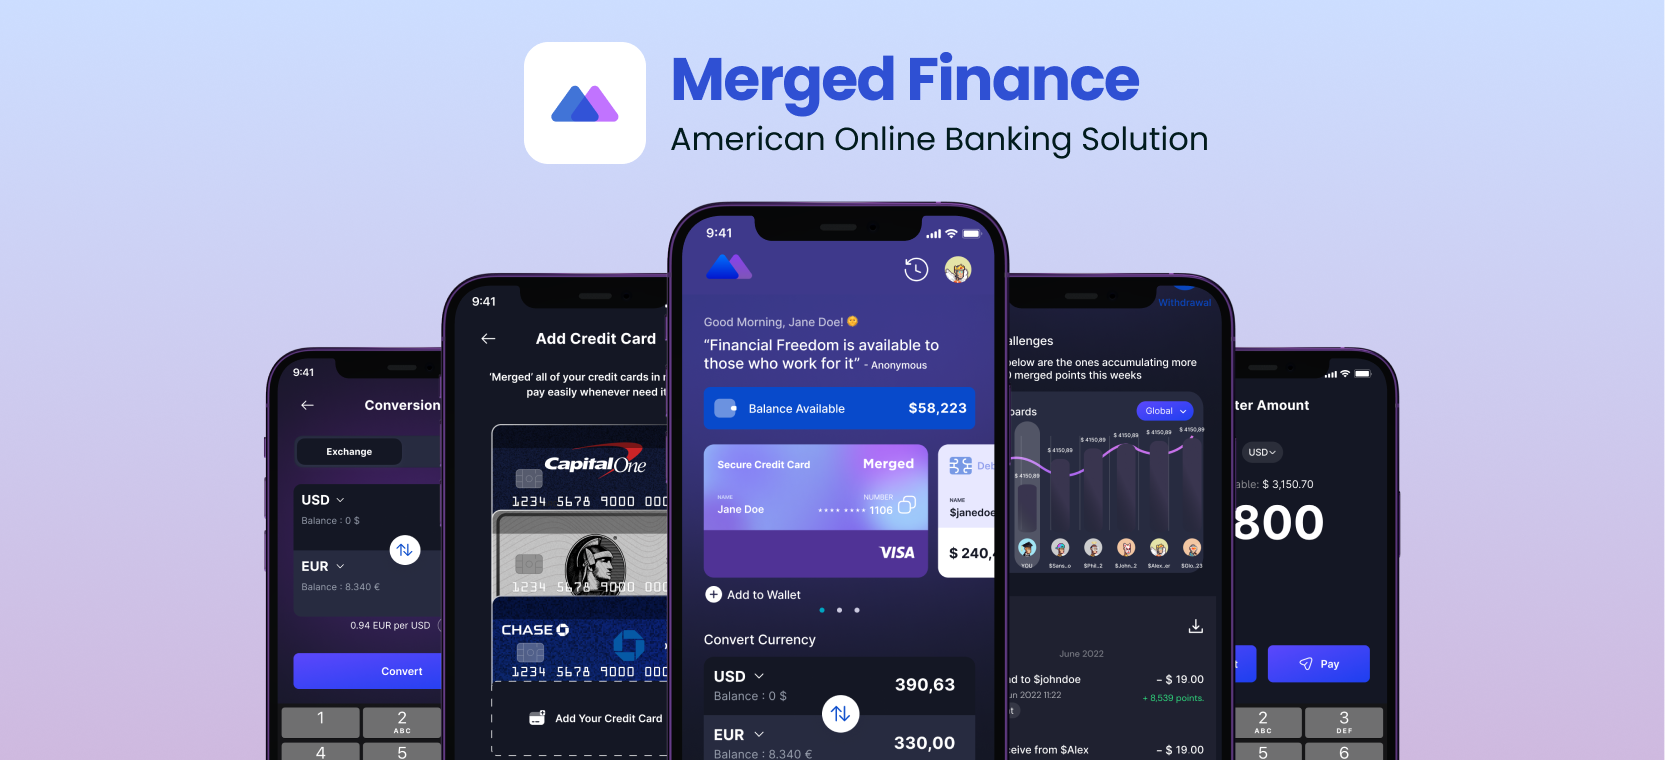
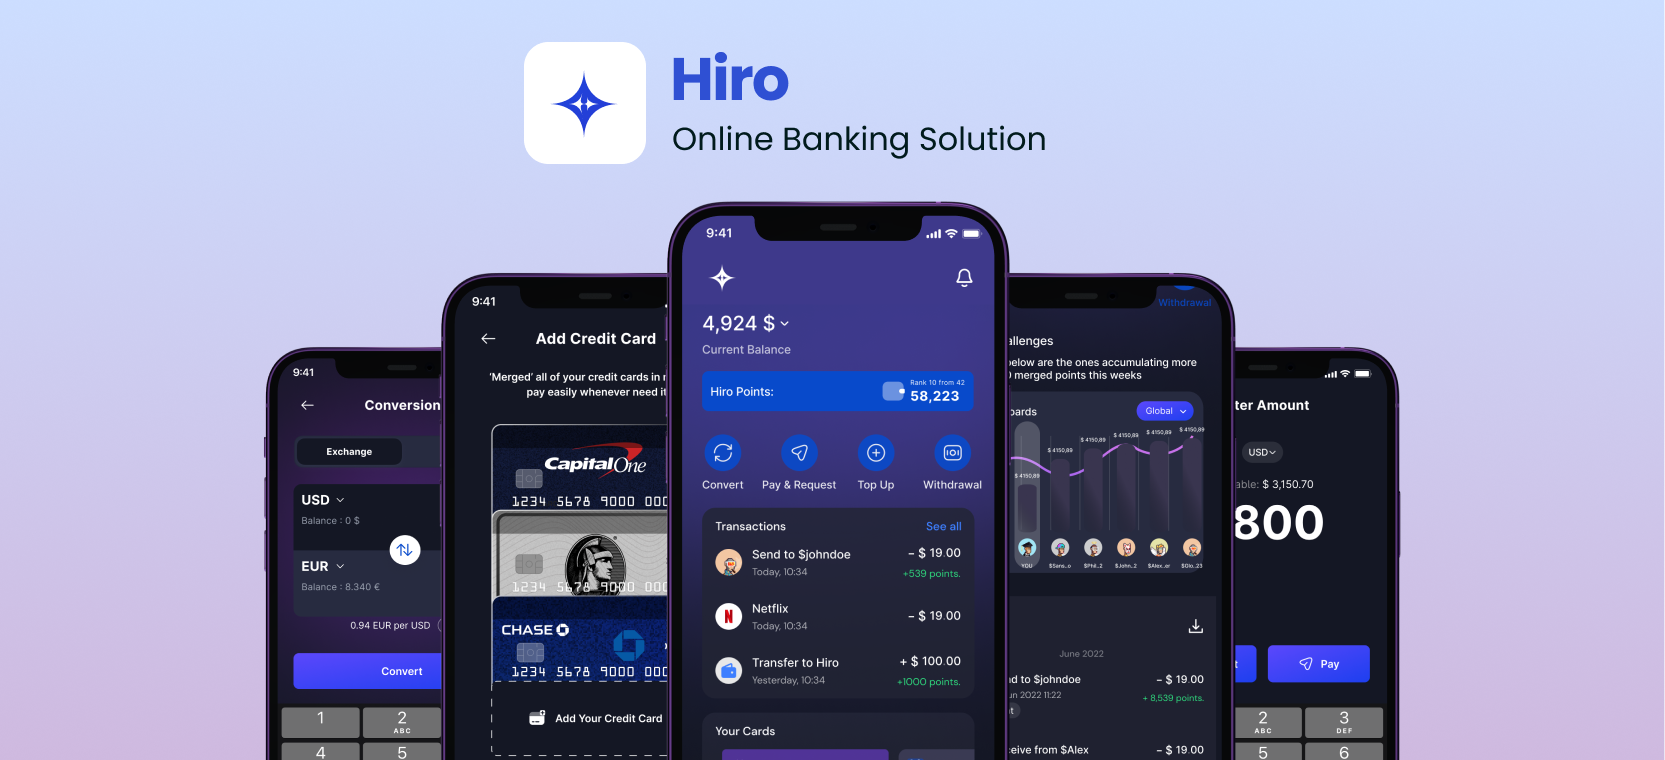
update again

diff --git a/index.html b/index.html
@@ -134,12 +134,12 @@
                 <div class="tag">LMS for Student, Teacher, and Admin SASS</div>
               </div>
             </a>
-            <a href="pages/merged.html" class="item ">
+            <a href="pages/hiro.html" class="item ">
 
               <div class="thumb">
                 <span class="labels">Detail</span><img alt="Your Alternative text" src="images/portfolio/merged.png"></div>
               <div class="caption">
-                <h4>Merged</h4>
+                <h4>Hiro</h4>
                 <div class="tag">Financial App based in America for Web 3.0</div>
               </div>
             </a>
